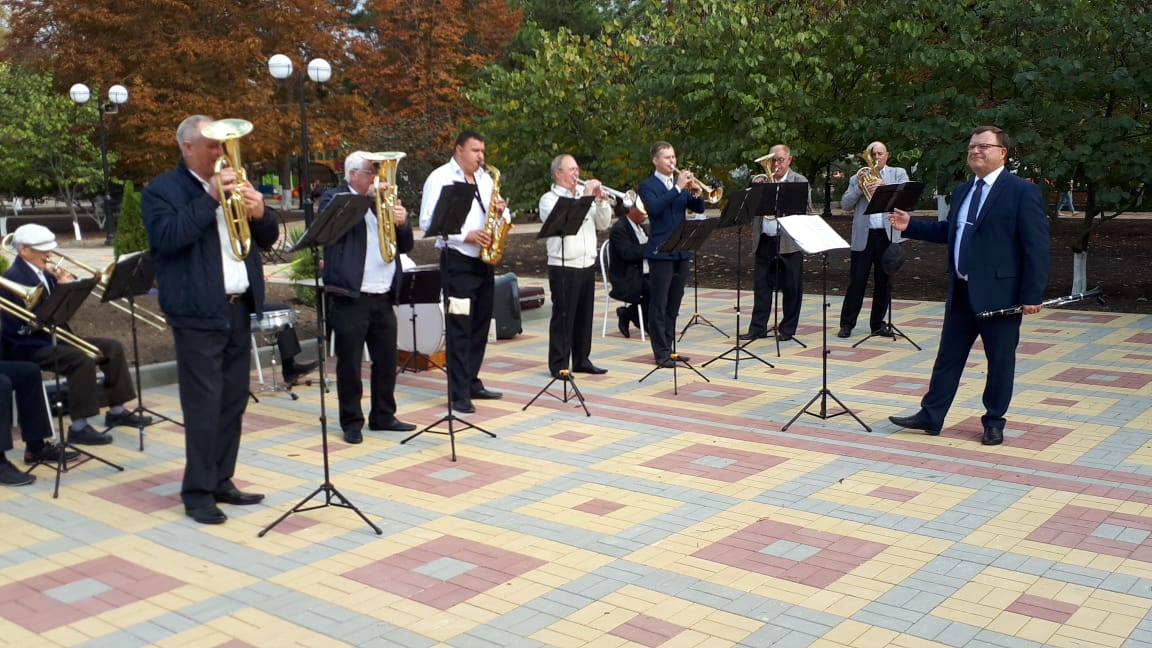
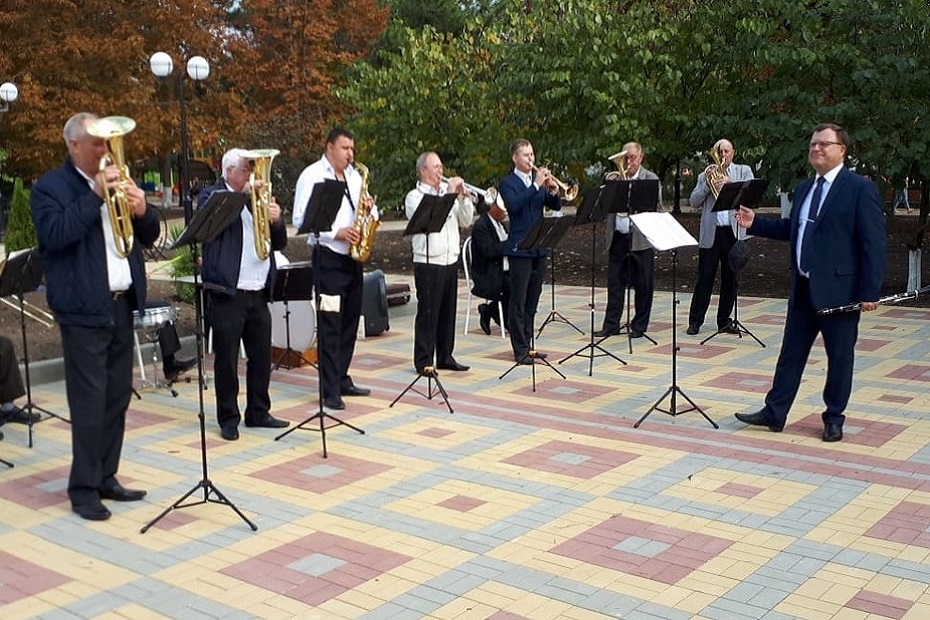
слайдер адаптив

diff --git a/src/components/SliderComponent.vue b/src/components/SliderComponent.vue
@@ -15,7 +15,7 @@
     <swiper-slide v-for="picture in sliderPictures">
       <div class="swiper-zoom-container">
         <img
-          class="projectdetails__img swiper-slide__img"
+          class="blogdetails__img swiper-slide__img"
           :src="picture.src"
           :alt="picture.alt"
         />
@@ -54,5 +54,17 @@ export default {
 };
 </script>
 
-<!-- <style lang="scss" scoped>
-</style> -->
+<style lang="scss" scoped>
+// .swiper {
+//   // width: 95%;
+//   height: 100vw;
+// }
+.swiper-slide__img {
+  // margin-bottom: 42px;
+  margin-bottom: 0px;
+}
+.swiper-zoom-container > img {
+  max-width: 85%;
+  max-height: 100vw;
+}
+</style>

diff --git a/src/assets/styles/_blog-details.scss b/src/assets/styles/_blog-details.scss
@@ -46,7 +46,7 @@
   }
 
   &__img {
-    border-radius: 70px;
+    border-radius: 20px;
   }
 }
 @media (max-width: 768px) {
